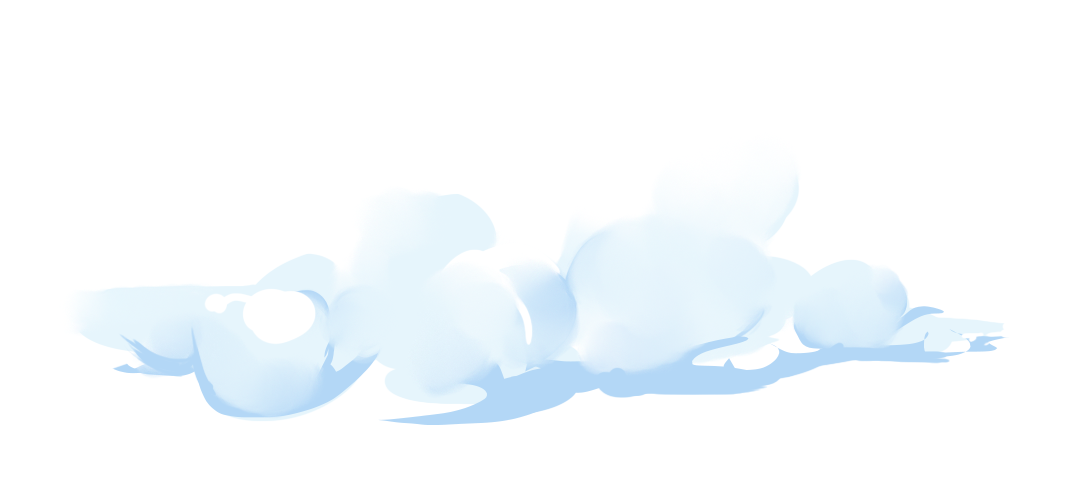
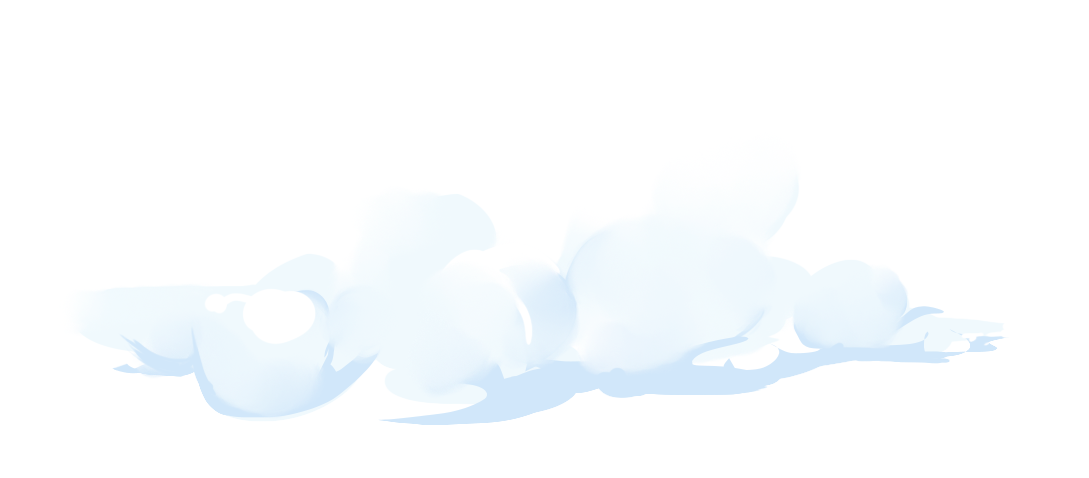
fixed clouds, opacity, moving speed & direction

diff --git a/src/playinggamescene.ts b/src/playinggamescene.ts
@@ -178,7 +178,7 @@ class PlayingGameScene {
       gameObject.update(this.startingSpeed + this.acceleration);
     }
     for (const backgroundObject of this.backgroundObjects) {
-      backgroundObject.update(this.startingSpeed + this.acceleration);
+      backgroundObject.update(-(this.startingSpeed + this.acceleration)/5);
     }
     for (const fish of this.fishes) {
       fish.update(this.startingSpeed + this.acceleration);
@@ -218,7 +218,7 @@ class PlayingGameScene {
     if (random(2) < 0.004) {
       this.backgroundObjects.push(
         new Cloud(
-          new p5.Vector(width, random(height / 3)),
+          new p5.Vector(-350, random(height / 10)-20),
           new p5.Vector(random(180, 350), random(100, 270)),
           images.cloud1,
           random(3),
@@ -228,7 +228,7 @@ class PlayingGameScene {
     } else if (random(15) > 14.99) {
       this.backgroundObjects.push(
         new Cloud(
-          new p5.Vector(width, random(height / 3)),
+          new p5.Vector(-400, random(height / 10)-20),
           new p5.Vector(random(250, 400), random(90, 150)),
           images.cloud2,
           random(3),
@@ -238,14 +238,13 @@ class PlayingGameScene {
     } else if (random(10) > 9.99) {
       this.backgroundObjects.push(
         new Cloud(
-          new p5.Vector(width, random(height / 3)),
+          new p5.Vector(-450, random(height / 10)-20),
           new p5.Vector(random(250, 450), random(100, 150)),
           images.cloud3,
           random(3),
           random(3)
         )
       );
-
     }
   }
   /**
@@ -314,14 +313,18 @@ class PlayingGameScene {
    * Draws out the gamescene.
    */
   private drawEntities() {
+
+    for (const backgroundObject of this.backgroundObjects) {
+      backgroundObject.draw();
+    }
+
+    this.buildings.draw();
+    
     for (const gameObject of this.gameObjects) {
       gameObject.draw();
     }
     for (const enemies of this.enemies) {
       enemies.draw();
-    }
-    for (const backgroundObject of this.backgroundObjects) {
-      backgroundObject.draw();
     }
     for (const fish of this.fishes) {
       fish.draw();
@@ -332,8 +335,6 @@ class PlayingGameScene {
     for (const bullet of this.bullets) {
       bullet.draw();
     }
-    this.buildings.draw();
-
   }
 
   /**
